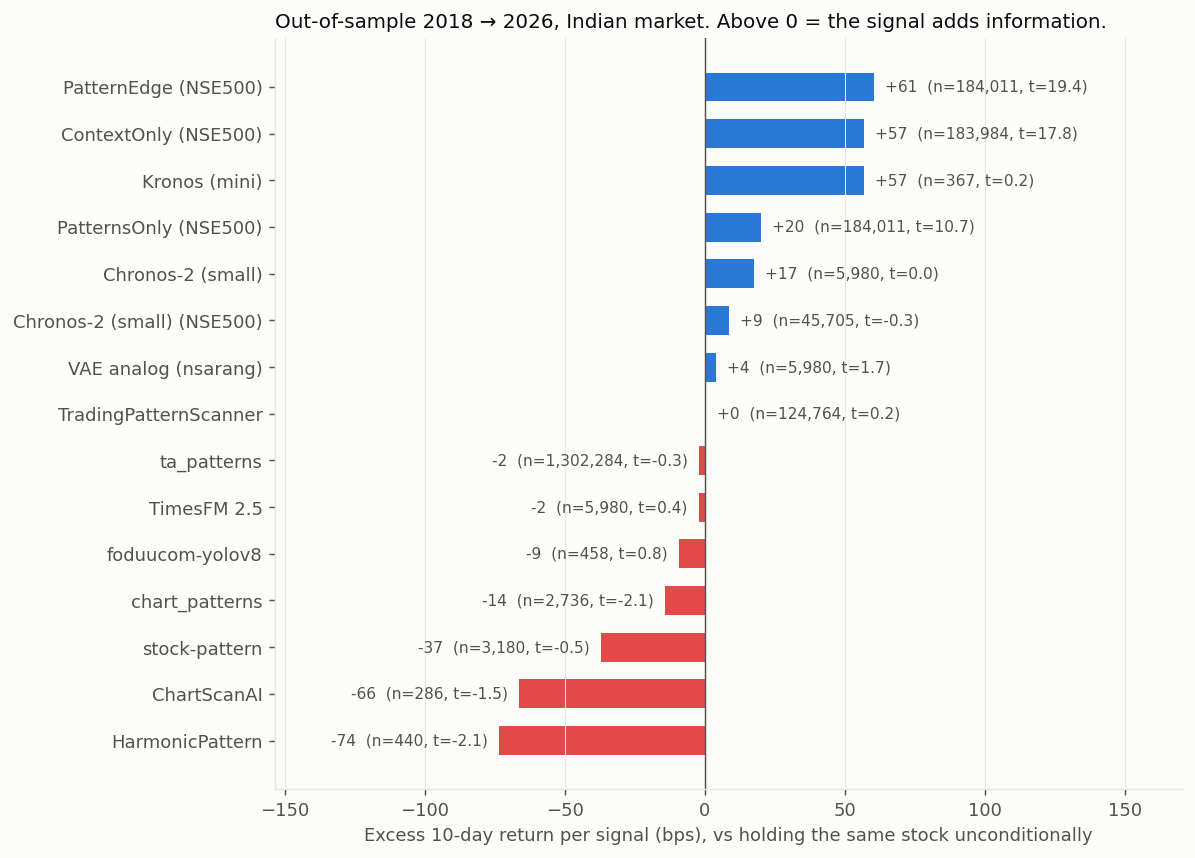
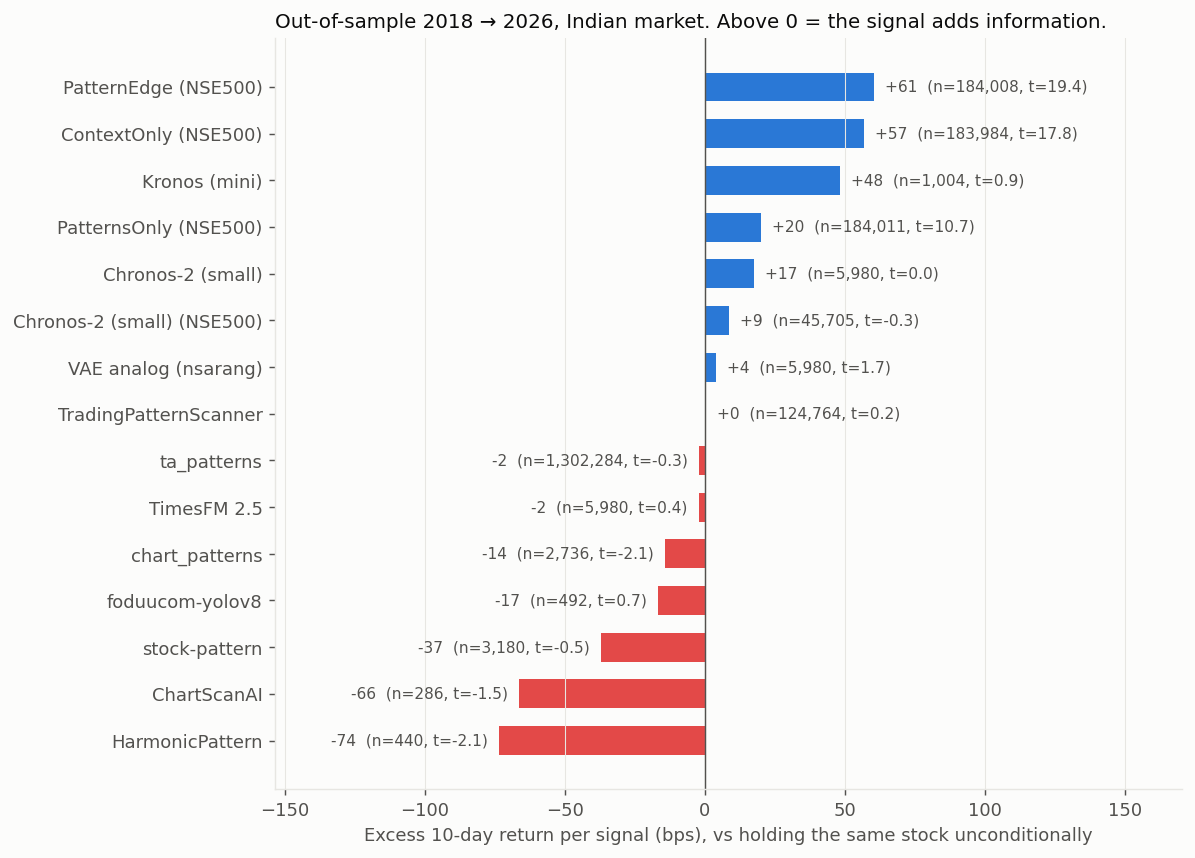
Update results: full Kronos run, PatternEdge scores up to latest bar

diff --git a/README.md b/README.md
@@ -43,7 +43,8 @@ flowchart LR
 ![Benchmark](docs/img/benchmark.png)
 
 - **Raw patterns are noise on Indian large caps.** No rule-based or YOLO repo beats holding the stock once its lookahead is removed.
-- **The forecasters (Kronos, Chronos, TimesFM) predict mostly drift**, so their directional edge is small and not statistically significant.
+- **The forecasters (Chronos, TimesFM) predict mostly drift**, so their directional edge is small and not statistically significant.
+- **Kronos is the most promising forecaster.** Over 1,004 forecasts its rank IC is 0.18, but the result is not yet significant (t ≈ 0.9).
 - **PatternEdge earns +61 bps per 10-day signal on NSE500** (+51 bps for longs only), with t ≈ 19.
 
 ![PatternEdge deciles](docs/img/edge_deciles.png)
